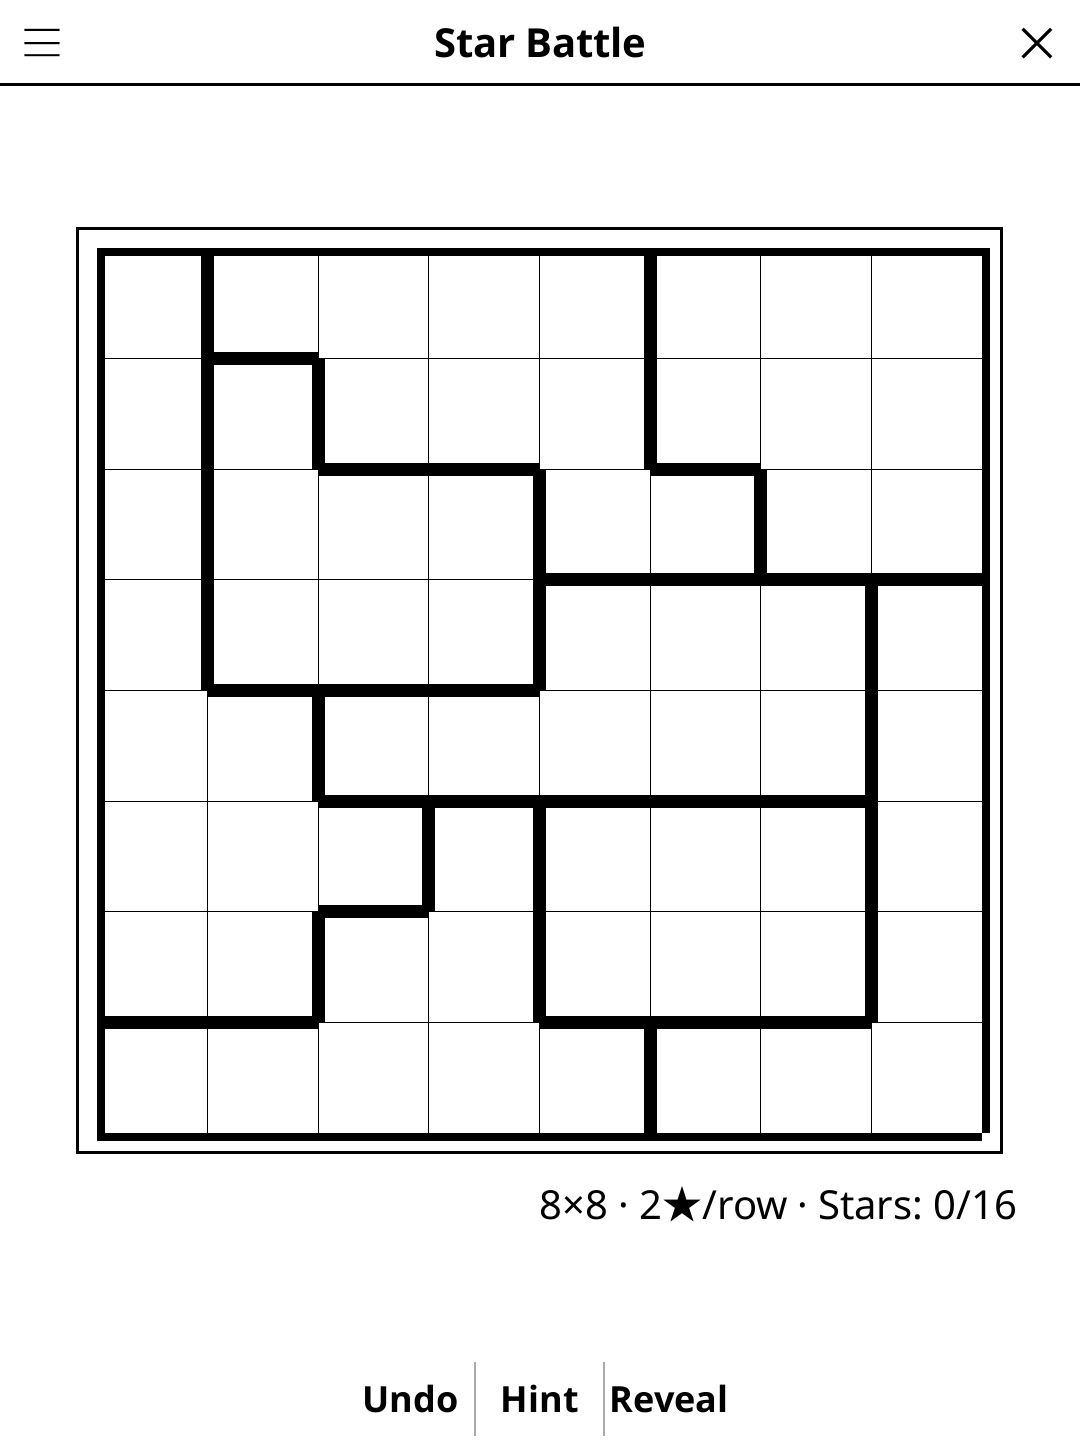
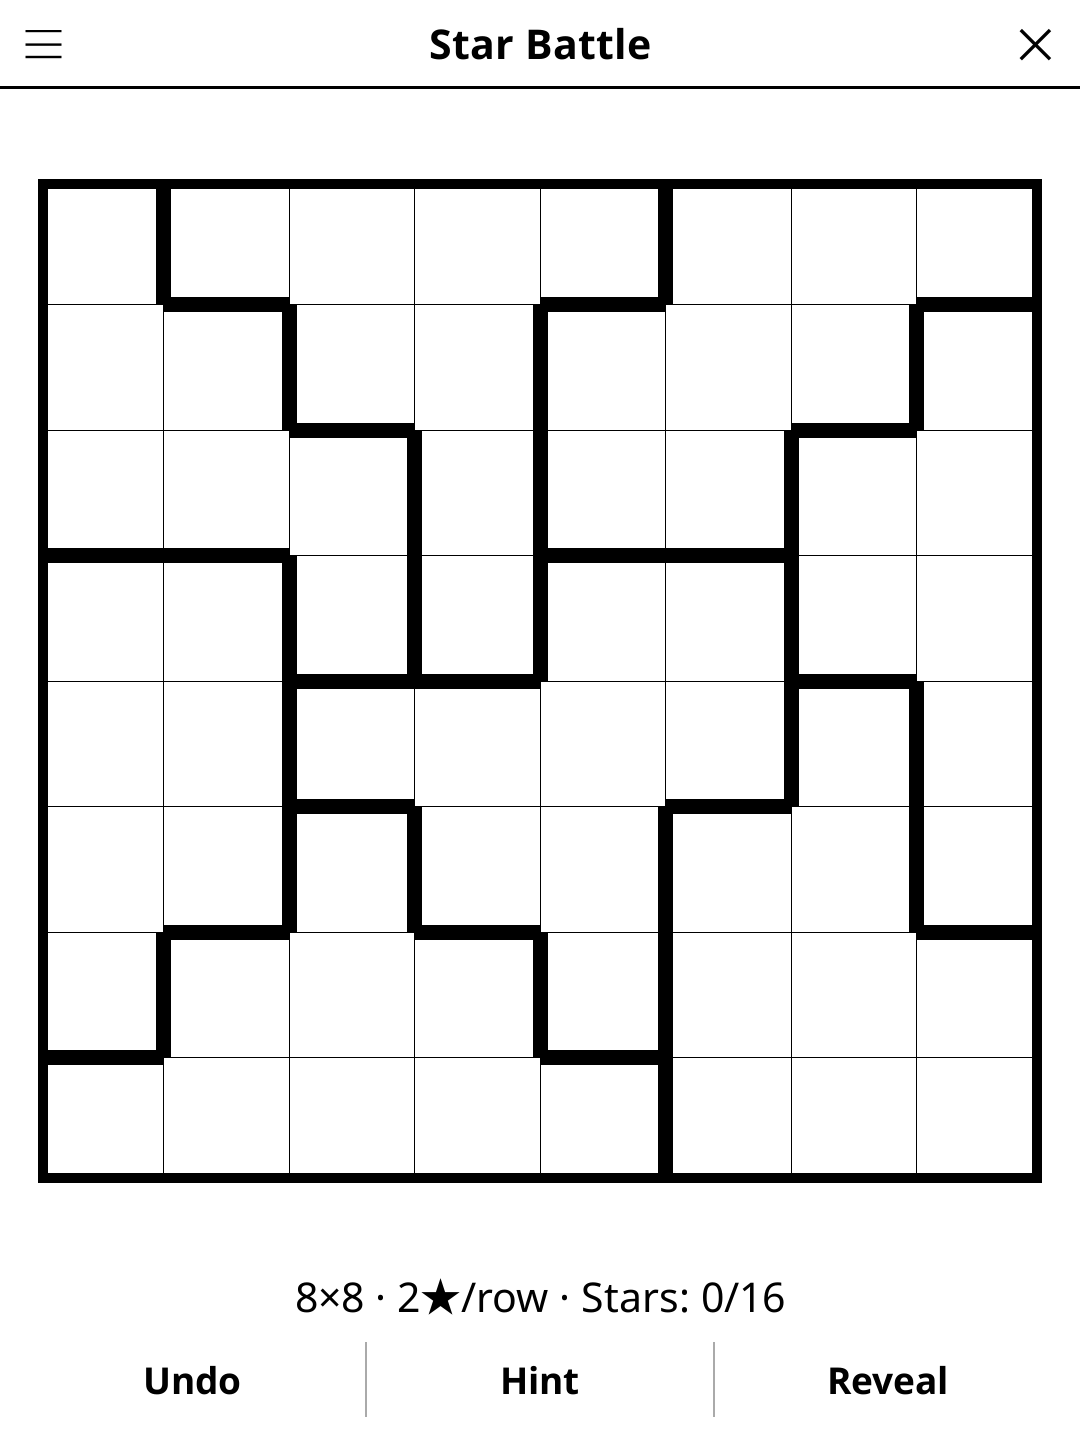
release: 1.3.0 -- redesigned screen, harmonised menu, New game at round end
Screen redesign (full-width action bar, unified pad, status line, larger
board), harmonised title-bar menu, and a "New game" button once the round
is over. See CHANGELOG.md.

diff --git a/CHANGELOG.md b/CHANGELOG.md
@@ -2,6 +2,25 @@
 
 All notable changes to this project will be documented in this file.
 
+## [1.3.0] - 2026-10-30
+
+### Changed
+- Redesigned play screen: the board is larger, filling the room the controls
+  leave, with a full-width action bar under the status line and a single
+  frame around the board.
+- Stars are drawn as a real ★ sized to the cell (an "*" stood in for it: a
+  small glyph that sat near the top), and empty marks as a disc instead of a
+  tiny ".".
+- The status line reads "8×8 · 1★/row · Stars: 3/8" and wraps in landscape
+  instead of being cut off.
+- Once the puzzle is solved (or revealed), the action bar shows "New game" in
+  place of Undo/Hint/Reveal, so the next round no longer needs the menu.
+
+### Fixed
+- The grid's right and bottom border lines were drawn past the board's edge.
+- Using a hint wiped the saved game; it is now kept. When a hint places the
+  last star, the status shows the win message.
+
 ## [1.2.2] - 2026-10-07
 
 ### Fixed

diff --git a/README.md b/README.md
@@ -31,7 +31,7 @@ Place exactly N stars per row, column, and bold outlined region. No two stars ma
 |--------|-----|
 | Place star / mark empty / clear | Tap cell (cycles) |
 | Check progress | Tap **Check** |
-| New puzzle | Tap **New** |
+| New puzzle | Tap **New game** |
 | Show rules | Tap **Rules** |
 
 ## Known limitations
